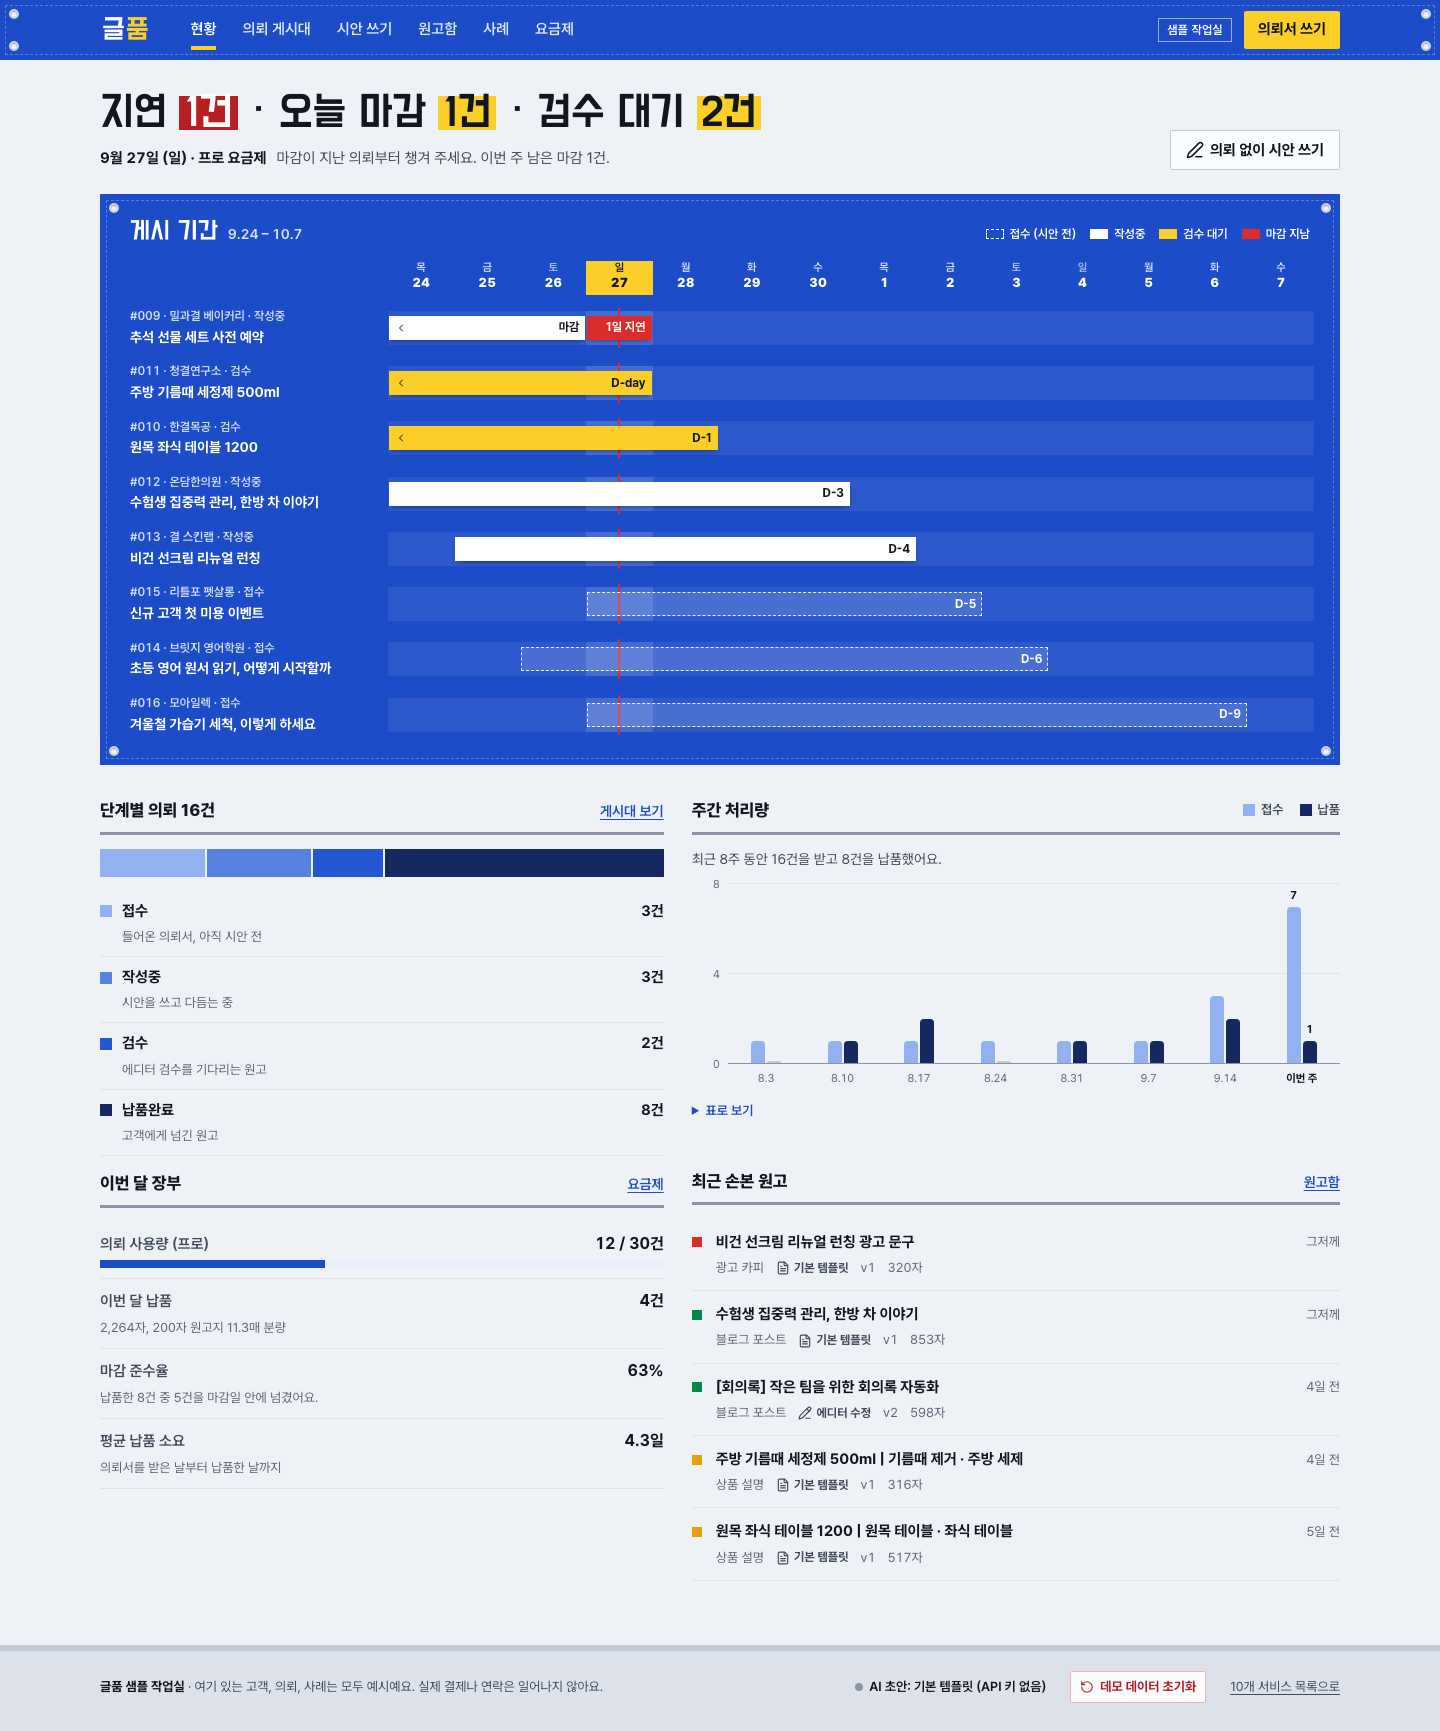
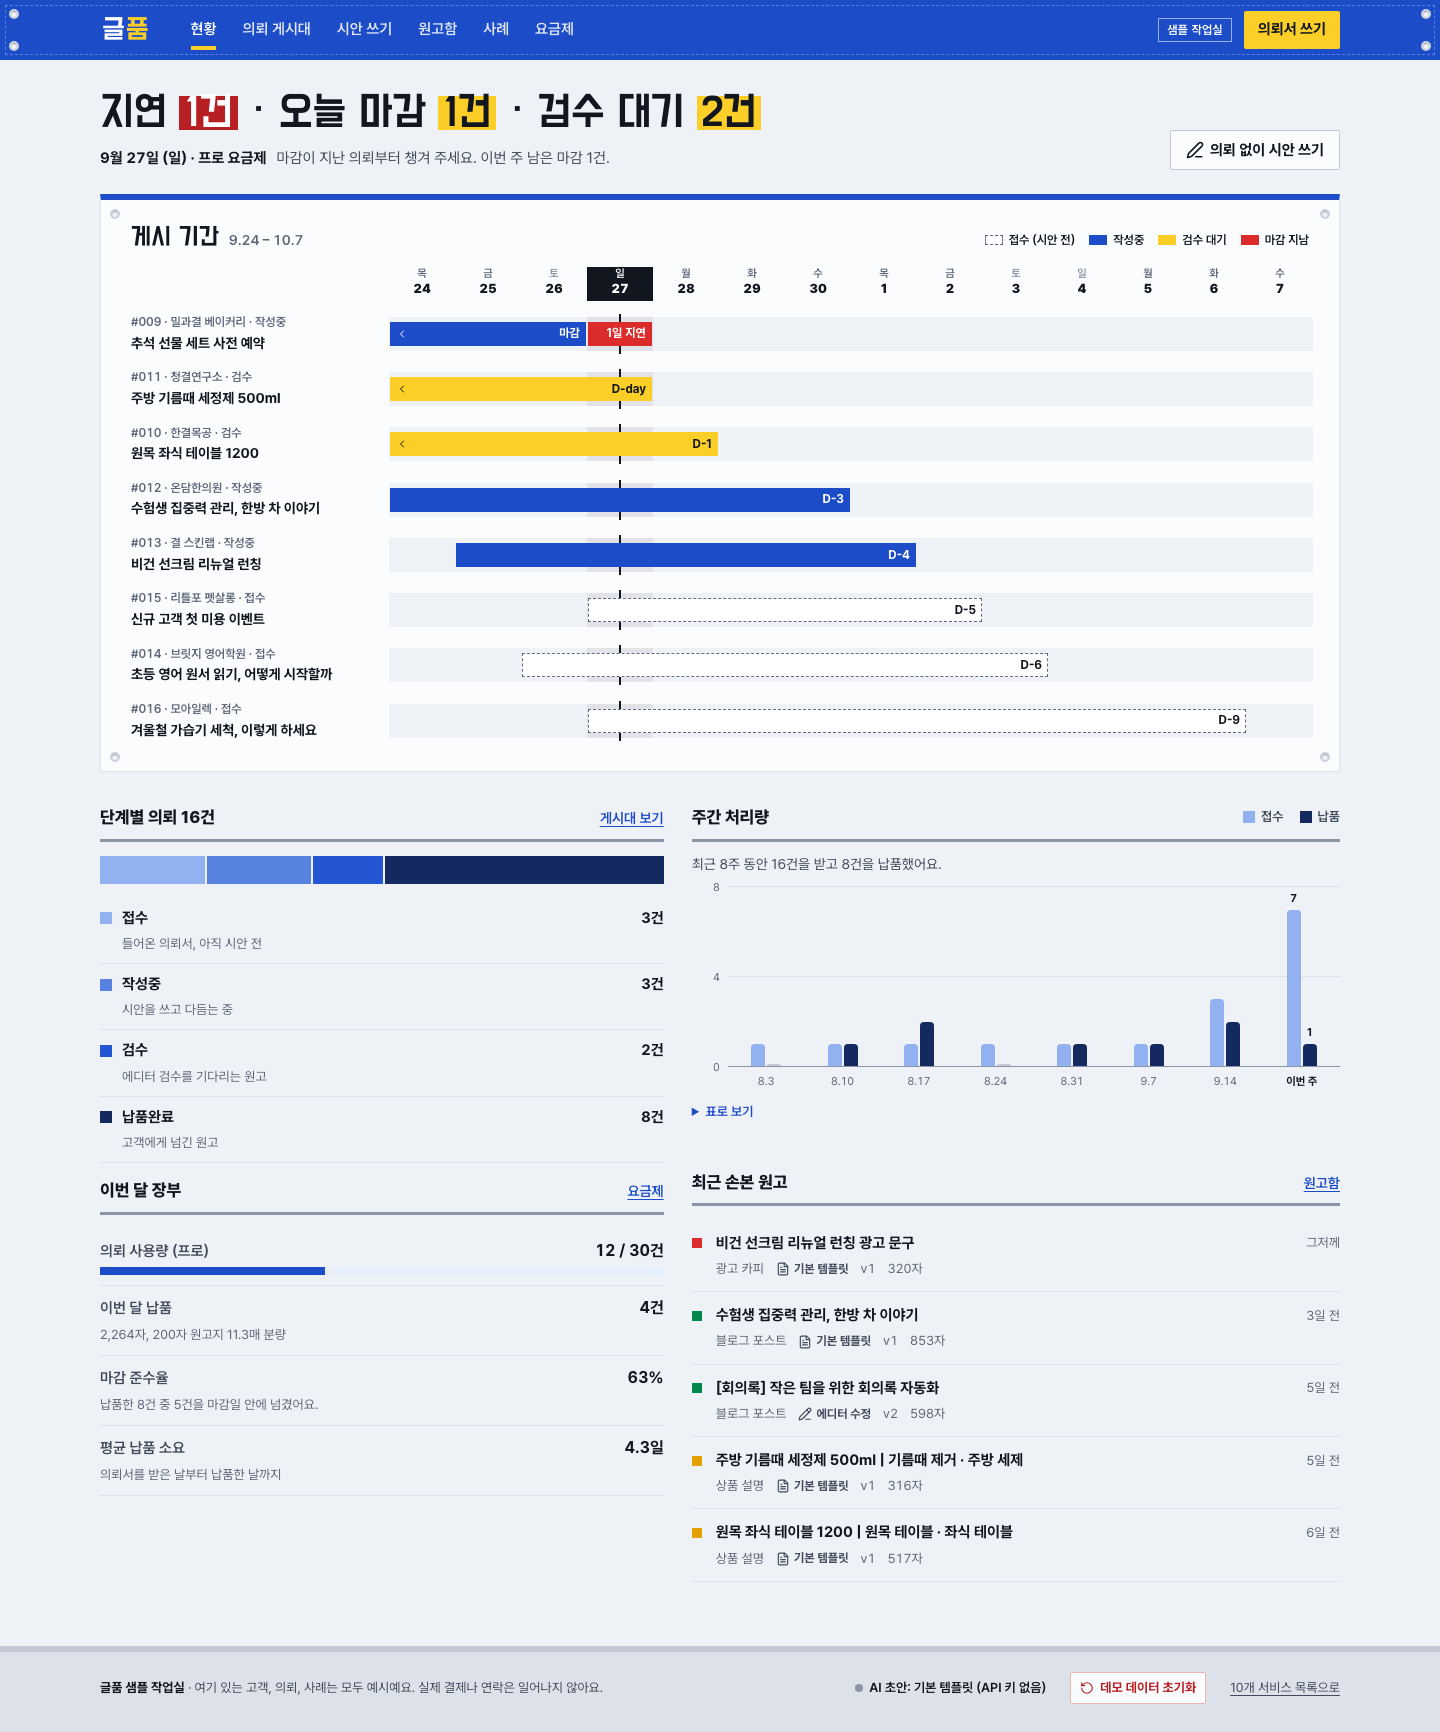
글품 (ai-content-agency): 게시 기간 stand on a light panel so the bars read

diff --git a/src/pocs/ai-content-agency/components/dashboard/dashboard.module.css b/src/pocs/ai-content-agency/components/dashboard/dashboard.module.css
@@ -51,11 +51,11 @@
 
 .stand {
   position: relative;
-  background: var(--cobalt);
-  color: #fff;
+  background: var(--vinyl);
+  color: var(--ink);
   padding: 22px 26px 26px;
-  outline: 1px dashed rgb(255 255 255 / 0.28);
-  outline-offset: -7px;
+  border: 1px solid var(--steel-1);
+  border-top: 6px solid var(--cobalt);
   --label: 250px;
   --days: 14;
 }
@@ -82,7 +82,7 @@
   font-family: var(--font-ui);
   font-size: 14px;
   font-weight: 600;
-  opacity: 0.85;
+  color: var(--ink-3);
   font-variant-numeric: tabular-nums;
 }
 
@@ -106,12 +106,12 @@
 .legendKey {
   width: 18px;
   height: 10px;
-  background: #fff;
+  background: var(--cobalt);
 }
 
 .legendKey[data-stage="received"] {
-  background: transparent;
-  border: 1.5px dashed #fff;
+  background: #fff;
+  border: 1.5px dashed var(--steel-4);
 }
 
 .legendKey[data-stage="review"] {
@@ -146,7 +146,7 @@
   display: grid;
   gap: 1px;
   padding: 4px 4px;
-  color: #fff;
+  color: var(--ink);
   text-decoration: none;
   border-radius: var(--radius);
 }
@@ -159,7 +159,7 @@ a.rowLabel:hover .rowTopic {
 .rowMeta {
   font-size: 12px;
   font-weight: 600;
-  color: rgb(255 255 255 / 0.8);
+  color: var(--ink-3);
   font-variant-numeric: tabular-nums;
   white-space: nowrap;
   overflow: hidden;
@@ -183,7 +183,7 @@ a.rowLabel:hover .rowTopic {
   display: grid;
   grid-template-columns: repeat(var(--days), minmax(0, 1fr));
   height: 34px;
-  background: rgb(255 255 255 / 0.07);
+  background: var(--ground);
 }
 
 .dayRow .track {
@@ -197,33 +197,33 @@ a.rowLabel:hover .rowTopic {
   font-size: 11px;
   font-weight: 600;
   line-height: 1.25;
-  color: rgb(255 255 255 / 0.82);
+  color: var(--ink-3);
   font-variant-numeric: tabular-nums;
   padding-bottom: 4px;
 }
 
 .day b {
   font-size: 13px;
-  color: #fff;
+  color: var(--ink);
 }
 
 .day[data-weekend="true"] {
-  color: rgb(255 255 255 / 0.62);
+  color: var(--steel-3);
 }
 
 .day[data-today="true"] {
-  background: var(--yellow);
-  color: var(--ink);
+  background: var(--ink);
+  color: #fff;
 }
 
 .day[data-today="true"] b {
-  color: var(--ink);
+  color: #fff;
 }
 
 /* today's column and line, drawn in every track */
 .todayCol {
   grid-row: 1;
-  background: rgb(255 255 255 / 0.12);
+  background: rgb(17 22 31 / 0.06);
   position: relative;
   pointer-events: none;
 }
@@ -236,7 +236,7 @@ a.rowLabel:hover .rowTopic {
   left: 50%;
   width: 2px;
   margin-left: -1px;
-  background: var(--red);
+  background: var(--ink);
   z-index: 0;
 }
 
@@ -251,25 +251,24 @@ a.rowLabel:hover .rowTopic {
   min-width: 0;
   margin: 5px 1px;
   padding: 0 6px;
-  background: #fff;
-  color: var(--ink);
+  background: var(--cobalt);
+  color: #fff;
   font-size: 12px;
   font-weight: 700;
   white-space: nowrap;
   overflow: hidden;
-  box-shadow: 0 3px 5px -3px rgb(0 0 0 / 0.5);
 }
 
 .bar[data-stage="received"] {
-  background: rgb(255 255 255 / 0.14);
-  color: #fff;
-  outline: 1.5px dashed rgb(255 255 255 / 0.9);
+  background: #fff;
+  color: var(--ink);
+  outline: 1.5px dashed var(--steel-4);
   outline-offset: -1.5px;
-  box-shadow: none;
 }
 
 .bar[data-stage="review"] {
   background: var(--yellow);
+  color: var(--ink);
 }
 
 .bar[data-clipped-start="true"] {
@@ -290,7 +289,6 @@ a.rowLabel:hover .rowTopic {
   font-weight: 700;
   white-space: nowrap;
   overflow: hidden;
-  box-shadow: 0 3px 5px -3px rgb(0 0 0 / 0.5);
 }
 
 .more {
@@ -301,7 +299,7 @@ a.rowLabel:hover .rowTopic {
 }
 
 .more a {
-  color: #fff;
+  color: var(--cobalt);
 }
 
 .standEmpty {
@@ -572,7 +570,7 @@ a.rowLabel:hover .rowTopic {
   }
 
   .rowDue[data-tone="late"] {
-    color: #ffd0cf;
+    color: var(--red-ink);
   }
 
   .track {

diff --git a/src/pocs/ai-content-agency/DESIGN.md b/src/pocs/ai-content-agency/DESIGN.md
@@ -141,7 +141,7 @@ components:
 
 **Creative North Star: "The Banner Stand" (현수막 게시대)**
 
-글품 is drawn as the municipal banner stand Korean small shops hang their 현수막 on. Every order is a banner hung for a posting period that ends on its due date; every draft is a 시안, the banner proof a print shop shows before it prints. Cobalt banner blue owns whole fields (the masthead, the stand behind the timeline and the board), galvanized-steel greys carry structure, vinyl white carries the words, and the three banner substrates (green, yellow, red) name the three kinds of copy.
+글품 is drawn as the municipal banner stand Korean small shops hang their 현수막 on. Every order is a banner hung for a posting period that ends on its due date; every draft is a 시안, the banner proof a print shop shows before it prints. Cobalt banner blue owns whole fields (the masthead, the stand's top rail and the board), galvanized-steel greys carry structure, vinyl white carries the words, and the three banner substrates (green, yellow, red) name the three kinds of copy.
 
 The product is an operator's console first. Density is honest: tables, ruled ledgers and tiers carry the work; the world lives in precise, repeated devices (the stitched hem, four grommets, the 게시기간 sticker, the sign-painter lettering) rather than in decoration. Light theme, from the scene: an office desk in daylight and a phone in a lit shop.
 
@@ -159,10 +159,10 @@ It rejects the SaaS default the legacy POC shipped (gradient hero, counters, ico
 A banner-shop palette: one committed brand field, three substrate colours for content kinds, one ordinal ramp for the pipeline, and cool steel neutrals.
 
 ### Primary
-- **Cobalt Banner Blue** (#1c4cc8): the masthead, the 게시 기간 stand, the order board field, primary buttons, selected segments, focus rings. Pressed state Cobalt Press (#173fa6); Cobalt Deep (#13295f) for the enterprise plan banner and success text; Cobalt Wash (#e7eefc) for hover washes and done steps.
+- **Cobalt Banner Blue** (#1c4cc8): the masthead, the 게시 기간 stand's top rail and 작성중 bars, the order board field, primary buttons, selected segments, focus rings. Pressed state Cobalt Press (#173fa6); Cobalt Deep (#13295f) for the enterprise plan banner and success text; Cobalt Wash (#e7eefc) for hover washes and done steps.
 
 ### Secondary
-- **Banner Yellow** (#fccf28): the emphasised key word on blue (the 품 of the wordmark, the headline marker behind counts, the active nav bar, today's column), the masthead CTA, the "추천" and D-day stickers, the 검수 stage on the stand. Also the product-description proof field (with ink lettering). Text selection.
+- **Banner Yellow** (#fccf28): the emphasised key word on blue (the 품 of the wordmark, the headline marker behind counts, the active nav bar, the masthead CTA, the "추천" and D-day stickers, the 검수 stage on the stand. Also the product-description proof field (with ink lettering). Text selection.
 
 ### Tertiary
 - **Banner Red** (#db2c2b): late overrun bars, today's line, the ad-copy proof field and kind swatch. Red Ink (#b81f22) for small red text (late stickers, errors, destructive confirmations) where contrast needs it; Red Wash (#fdeaea) behind error notices.
@@ -252,12 +252,12 @@ Rectangles. Banners and panels have square corners (0px); controls, stickers and
 - The draft title set as a banner in its kind's substrate (green, yellow with ink lettering, red), the first matching keyword in the key colour, byline beneath, hem and grommets. **시안 펼치기:** when AI writes or rewrites a draft, the proof unrolls from the left edge (clip-path over 620ms, cubic-bezier(0.16, 1, 0.3, 1)) behind a shaded roll that travels with the edge, then the grommets punch in (220ms after 560ms). Reduced motion shows it at rest.
 
 ### 게시 기간 stand
-- Cobalt field; a day header with today in yellow; one row per open order with a vinyl bar from request to due date (dashed outline before a draft exists, yellow in 검수), a red overrun from the due date to today when late, and today's red line behind the bars.
+- Vinyl panel under a 6px cobalt top rail (a cobalt field made the bars hard to read); a day header with today in ink; one row per open order on a ground-grey track with a bar from request to due date (white with a dashed steel outline before a draft exists, cobalt while 작성중, yellow in 검수), a red overrun from the due date to today when late, and today's ink line behind the bars. Red stays reserved for late.
 
 ## Do's and Don'ts
 
 ### Do:
-- **Do** let cobalt own whole regions (#1c4cc8 masthead and stands) and keep the page ground cool (#eef1f5).
+- **Do** let cobalt own whole regions (#1c4cc8 masthead and board; the 게시 기간 stand keeps only a cobalt rail so its bars stay legible) and keep the page ground cool (#eef1f5).
 - **Do** give every order a due sticker and every draft a character count (공백 포함/제외, 원고지 매수).
 - **Do** mark the facts AI left open as "[확인 필요: …]" and highlight them in drafts.
 - **Do** label sample data (the 샘플 tag, dashed sample marks on cases).
